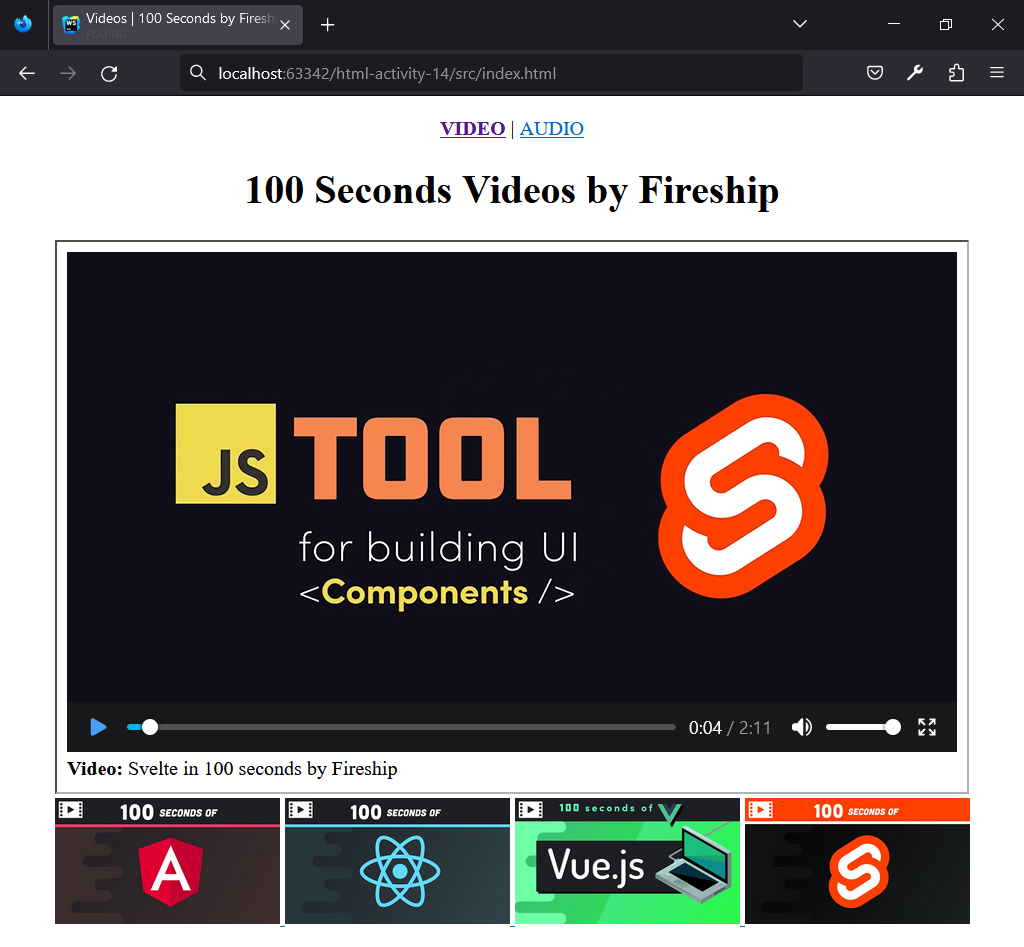
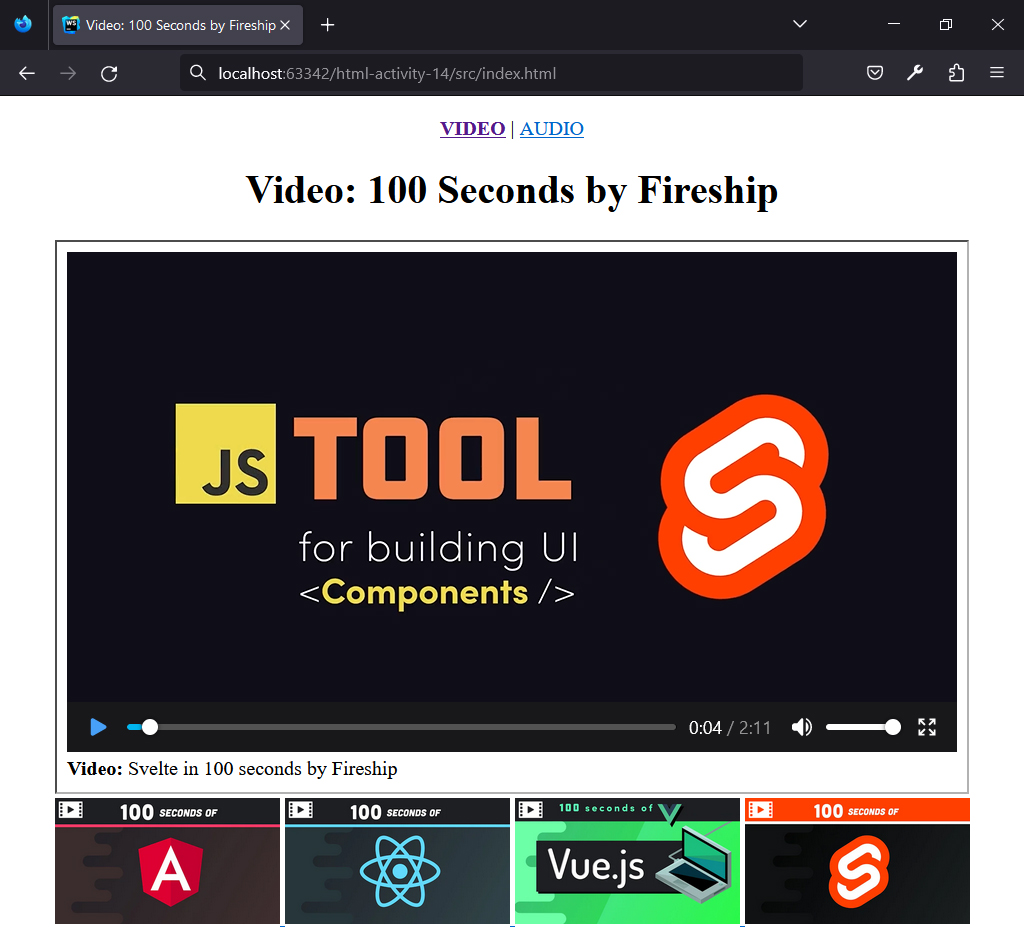
Update content title.

Changed region(s): [[0.2188, 0.1837, 0.7812, 0.2144], [0.0938, 0.0, 0.2812, 0.0306], [0.6875, 0.49, 0.7188, 0.5206]]

diff --git a/src/audio.html b/src/audio.html
@@ -2,7 +2,7 @@
 <html lang="en">
 <head>
     <meta charset="UTF-8">
-    <title>100 Seconds Audios by Fireship</title>
+    <title>Audio: 100 Seconds by Fireship</title>
 </head>
 <body>
     <div class="header" align="center">
@@ -11,7 +11,7 @@
             |
             <a href="audio.html"><b>AUDIO</b></a>
         </p>
-        <h1>100 Seconds Audios by Fireship</h1>
+        <h1>Audio: 100 Seconds by Fireship</h1>
     </div>
 
     <div align="center">

diff --git a/src/index.html b/src/index.html
@@ -2,7 +2,7 @@
 <html lang="en">
 <head>
     <meta charset="UTF-8">
-    <title>100 Seconds Videos by Fireship</title>
+    <title>Video: 100 Seconds by Fireship</title>
 </head>
 <body>
     <div class="header" align="center">
@@ -11,7 +11,7 @@
             |
             <a href="audio.html">AUDIO</a>
         </p>
-        <h1>100 Seconds Videos by Fireship</h1>
+        <h1>Video: 100 Seconds by Fireship</h1>
     </div>
 
     <div align="center">
